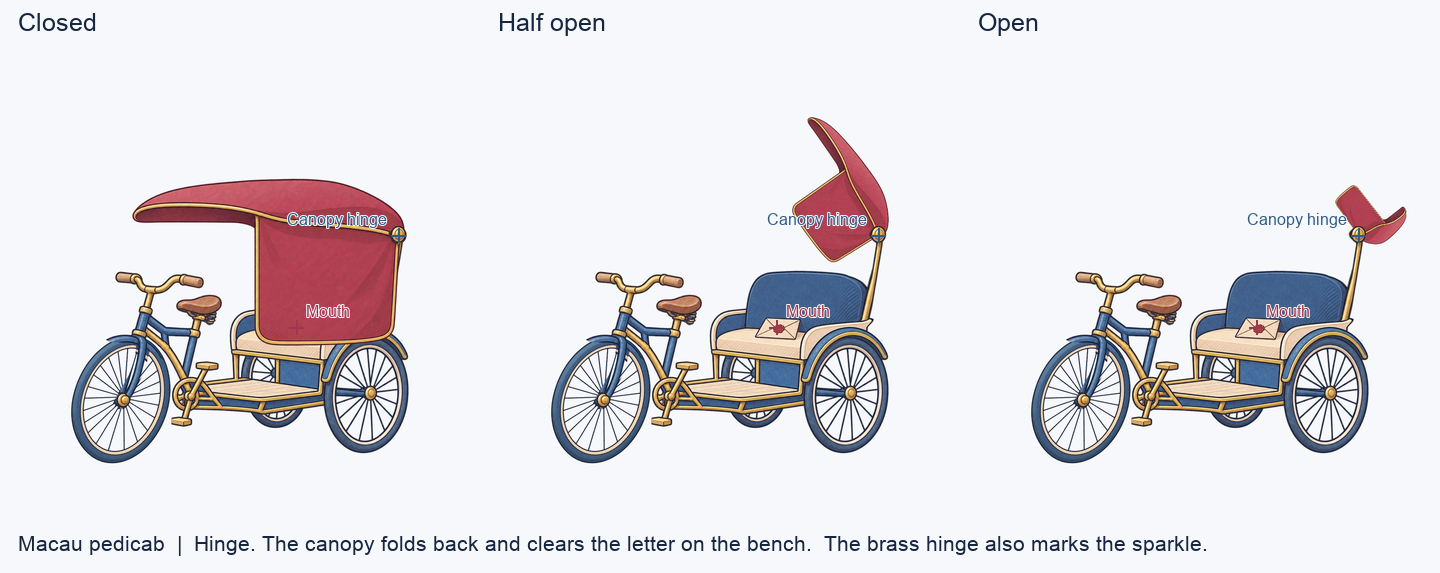
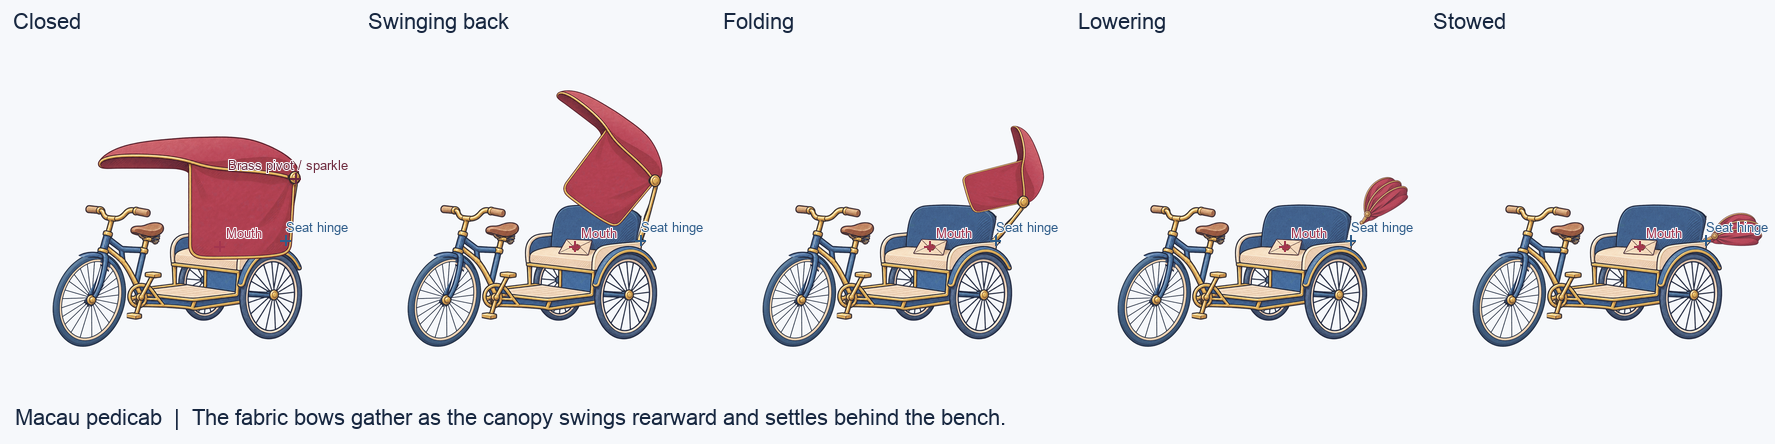
Fold Macau pedicab canopy behind the passenger bench

diff --git a/design/art/README.md b/design/art/README.md
@@ -464,14 +464,16 @@ Option variation: Calm bright overcast light, airy broad slightly irregular tree
 | `vessels/vessel-egg-tart-cup.png` | Fluted foil cup with complete interior and folded letter | 1024×1024 | Static |
 | `vessels/vessel-egg-tart-tart.png` | Complete puff-pastry shell and caramel-spotted custard | 1024×1024 | B lift-off |
 | `vessels/vessel-egg-tart-steam.png` | Soft blue steam wisps | 1024×1024 | Upward drift and fade |
-| `vessels/vessel-rooster.png` | 葡國公雞 / Portuguese rooster | 1024×1024 | Whole-PR review |
+| `vessels/vessel-rooster.png` | 葡國公雞 / Portuguese rooster | 1024×1024 | Roy approved at `dc5c66c` |
 | `vessels/vessel-rooster-body.png` | Ceramic body with complete letter recess | 1024×1024 | Static |
 | `vessels/vessel-rooster-back.png` | Painted tail and back cap | 1024×1024 | C cap lift |
 | `vessels/vessel-pedicab.png` | 澳門三輪車 / Macau pedicab | 1024×1024 | Whole-PR review |
 | `vessels/vessel-pedicab-cab.png` | Cab frame, fork and complete bench with folded letter | 1024×1024 | Static |
 | `vessels/vessel-pedicab-canopy.png` | Wax-red canvas roof and brass piping | 1024×1024 | A hinge |
 | `vessels/vessel-pedicab-wheel.png` | Front tire and spokes | 1024×1024 | Wheel tick |
-| `vessels/vessel-pedicab-hinge-pin.png` | Fixed brass hinge button | 1024×1024 | Static |
+| `vessels/vessel-pedicab-hinge-pin.png` | Upper brass button travelling with the roof bow | 1024×1024 | Hinge |
+| `vessels/vessel-pedicab-rear-bow.png` | Rear canopy bow and lower seat-frame pivot | 1024×1024 | Hinge |
+| `vessels/vessel-pedicab-folded-hood.png` | Gathered wax-red cloth and nested brass-piped pleats | 1024×1024 | Folds down behind the bench |
 
 ## Review
 
@@ -531,6 +533,8 @@ The pastry uses the regional plan’s approved muted food colours. Paper and gla
 
 The Portuguese rooster has a wax-red comb and original heart and flower painting on navy ceramic. The back cap lifts to reveal a finished recess with a rolled letter. The whole figure rocks 4° over 4.2 seconds. The silhouette draws on the flared base, upright comb and rounded swept tail in the [Wikimedia Commons photo `PA2900302_galo_emiliarocha_medio.jpg`](https://commons.wikimedia.org/wiki/File:PA2900302_galo_emiliarocha_medio.jpg), inspected on 2026-11-15.
 
-The Macau pedicab shows the bicycle front end, a rear two-wheel axle and a covered passenger bench. The wax-red cloth folds around a fixed brass hinge to reveal a folded letter on the seat. Its front wheel ticks as the whole pedicab bobs over 3.9 seconds. The frame and canopy structure draw on the [Wikimedia Commons photo `Macau_rickshaw_13-02-2019.jpg`](https://commons.wikimedia.org/wiki/File:Macau_rickshaw_13-02-2019.jpg), inspected on 2026-11-15.
+The Macau pedicab layout was checked again against two photographs on 2026-11-15. The Hotel Lisboa view shows the pedalling rider ahead of the passenger bench and one central front wheel. The stand view shows the empty forward-facing bench behind the rider’s saddle and the rear axle beneath the bench, with the far rear wheel partly obscured. The drawing has that same arrangement. [LN9267, `Macau_rickshaw_13-02-2019.jpg`](https://upload.wikimedia.org/wikipedia/commons/f/f1/Macau_rickshaw_13-02-2019.jpg) · [`3wheelscar.jpg`](https://upload.wikimedia.org/wikipedia/commons/3/32/3wheelscar.jpg)
 
-[Rooster motion](_checks/rooster-motion.png) · [Rooster at 40/120 px](_checks/rooster-silhouette.png) · [Pedicab motion](_checks/pedicab-motion.png) · [Pedicab at 40/120 px](_checks/pedicab-silhouette.png) · [Hash and geometry audit](_checks/rv-mo-wave-1-audit.json)
+The wax-red canopy and upper bow swing rearward. The pleats gather, then the stack rotates down around the lower seat-frame hinge and rests behind the blue bench. The folded letter is fully visible in the open pose. The closed PNG and WebP are byte-identical to `dc5c66c`. The front wheel still ticks as the cab bobs over 3.9 seconds.
+
+[Rooster motion](_checks/rooster-motion.png) · [Rooster at 40/120 px](_checks/rooster-silhouette.png) · [Pedicab motion](_checks/pedicab-motion.png) · [Animated fold](_checks/pedicab-fold.gif) · [Pedicab at 40/120 px](_checks/pedicab-silhouette.png) · [Hash and geometry audit](_checks/rv-mo-wave-1-audit.json)

diff --git a/AGENTS.md b/AGENTS.md
@@ -79,6 +79,7 @@ A mobile-first web app for sending someone a sealed **capsule** that can only be
 - To run the production web app locally: `cd mobile && npm install && npm run web` → http://localhost:8088. Legal pages are also copied by `npx expo export --platform web`.
 
 ## Decisions log
+- 2026-11-15: Roy approved the RV-MO Portuguese rooster in draft PR #138 at `dc5c66c`. The revised pedicab preserves the closed artwork and folds the canopy into a concertina stack behind its bench. Its layout was checked against two Macau reference photos. Await Roy’s pedicab review and whole-PR approval.
 - 2026-11-15: Roy approved the RV-MO egg tart in draft PR #138 at `ea7b7e5` and requested the rooster and pedicab in the style sheet’s flat ink, one shading tone and light hatching. Use the full style block in every call, including drafts. The two additions are ready for whole-PR art review.
 - 2026-11-15: Roy assigned RV-MO the egg tart itself in fluted foil, followed by the Portuguese rooster and Macau pedicab after the test approval. PR #134 removes its egg-tart box. The Macau art draft uses the regional plan’s approved food palette and holds the remaining two vessels for Roy’s egg-tart review. Whole-PR approval and green CI precede owner-account squash merge.
 - 2026-11-15: Claude accepted the seven WC1 density shortfalls on PR #136. Roy kept the existing playground eligibility rules. The review revision limits OpenCC to Singapore labels selected from `name:zh`, restores the original OSM spellings elsewhere and uses comma-free square-grid references. The rollout remains held for Claude’s re-review and Roy’s approval.

diff --git a/docs/TASKS.md b/docs/TASKS.md
@@ -26,7 +26,7 @@ Status: `todo` → `doing` → `review` (report sent to Claude) → `done`. Move
 ## Review
 | ID | Task | Owner | Note |
 |---|---|---|---|
-| RV-MO | Macau regional vessel art | Codex / Roy | Draft PR #138 contains the approved egg tart, Portuguese rooster and Macau pedicab. Roy’s whole-PR art approval and green CI precede the owner-account squash merge. |
+| RV-MO | Macau regional vessel art | Codex / Roy | Roy approved the egg tart and rooster in draft PR #138. The revised pedicab concertina fold awaits Roy’s review. Whole-PR approval and green CI precede the owner-account squash merge. |
 | Orienteering P2 | Private hunt player backend | Codex / Roy | Released in #120. Migration `20261114054459` is applied. The signed-in browser verified typed QR, spin, puzzle, leaderboard and Passport. |
 | Orienteering P1 | Private hunt organizer backend | Codex / Roy | Released in #119. Migration `20261114034030` is applied. A disposable pilot organizer verified creation, template and photo quests, publishing, review, and the first-join edit lock. |
 | HKUST stamps | Place stamp triangle fix + HKUST City Hunt double-ring stamp | Codex / Roy | PR #101 revised for Roy: script clears only 1467 triangle pixels; every other place-master pixel identical. New GPT Image 2 hunt stamp, normalized alone; place/hunt/Xinyi review at 24/40/64/120 px. Only app edit is the hunt image entry in mobile art manifest. Other stamps preserved; pending Roy’s OK again. No migration, deployment or merge. |
